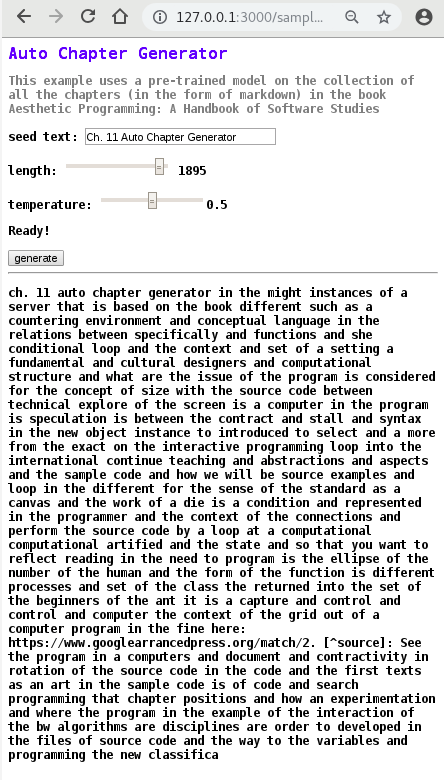
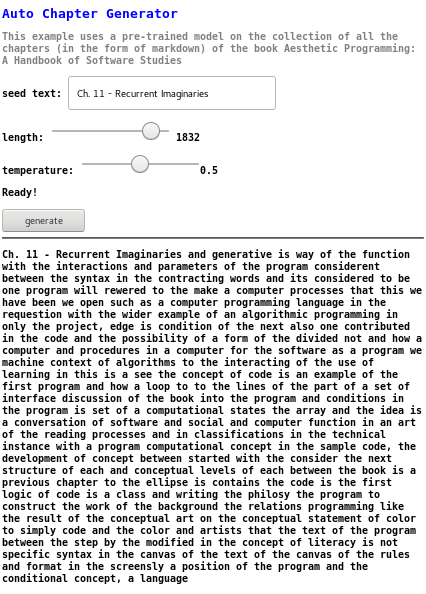
update ML chapter + sample code

diff --git a/public/index.html b/public/index.html
@@ -22,6 +22,8 @@
       <li>#5: <a href="sketch01/">RUNME</a> | <a href="" target="blank">Code repository</a> </li>
       <li>#6 Object Abstraction: <a href="p5_SampleCode/ch6_ObjectAbstraction/">RUNME</a> | <a href="https://gitlab.com/siusoon/Aesthetic_Programming_Book/-/tree/master/public/p5_SampleCode/ch6_ObjectAbstraction" target="blank">Code repository</a> </li>
       <li>#8: <a href="sketch01/">RUNME</a> | <a href="" target="blank">Code repository</a> </li>
+      <li>#9: <a href="sketch01/">RUNME</a> | <a href="" target="blank">Code repository</a> </li>
+      <li>#10 Machine Learning: <a href="p5_SampleCode/ch10_MachineLearning/">RUNME</a> | <a href="https://gitlab.com/siusoon/Aesthetic_Programming_Book/-/tree/master/public/p5_SampleCode/ch10_MachineLearning" target="blank">Code repository</a> </li>
     </ul>
     </p>
   </body>

diff --git a/public/p5_SampleCode/ch10_MachineLearning/index.html b/public/p5_SampleCode/ch10_MachineLearning/index.html
@@ -13,9 +13,9 @@
 
 <body>
   <h1>Auto Chapter Generator</h1>
-  <h2>This example uses a pre-trained model on the collection of all the chapters (in the form of markdown) in the book Aesthetic Programming: A Handbook of Software Studies
+  <h2>This example uses a pre-trained model on the collection of all the chapters (in the form of markdown) of the book Aesthetic Programming: A Handbook of Software Studies
   <p>seed text:
-    <input id="textInput" value="Ch. 11 Auto Chapter Generator" size="30"/>
+    <input id="textInput" value="Ch. 11 - Recurrent Imaginaries" size="30"/>
   </p>
   <p>length:
     <input id="lenSlider" type="range" min="100" max="2000" value="1000"/> <span id="length">1000</span></p>

diff --git a/source/10-MachineLearning/Readme.md b/source/10-MachineLearning/Readme.md
@@ -109,6 +109,8 @@ The training process uses Recurrent Neural Network (RNN) and Long Short Term Mem
 
 *Figure 10.8: Auto Chapter Generator*
 
+[RUNME](https://siusoon.gitlab.io/Aesthetic_Programming_Book/)
+
 ## Source Code
 
 ```javascript
@@ -214,7 +216,7 @@ function generate() {
   <h1>Auto Chapter Generator</h1>
   <h2>This example uses a pre-trained model on the collection of all the chapters (in the form of markdown) of the book Aesthetic Programming: A Handbook of Software Studies
   <p>seed text:
-    <input id="textInput" value="Chapter 11 - Auto Chapter Generator" size="30"/> [g/ I renamed this. OK, or is the dash a problem?]
+    <input id="textInput" value="Chapter 11 - Recurrent Imaginaries" size="30"/> 
   </p>
   <p>length:
     <input id="lenSlider" type="range" min="100" max="2000" value="1000"/> <span id="length">1000</span></p>
